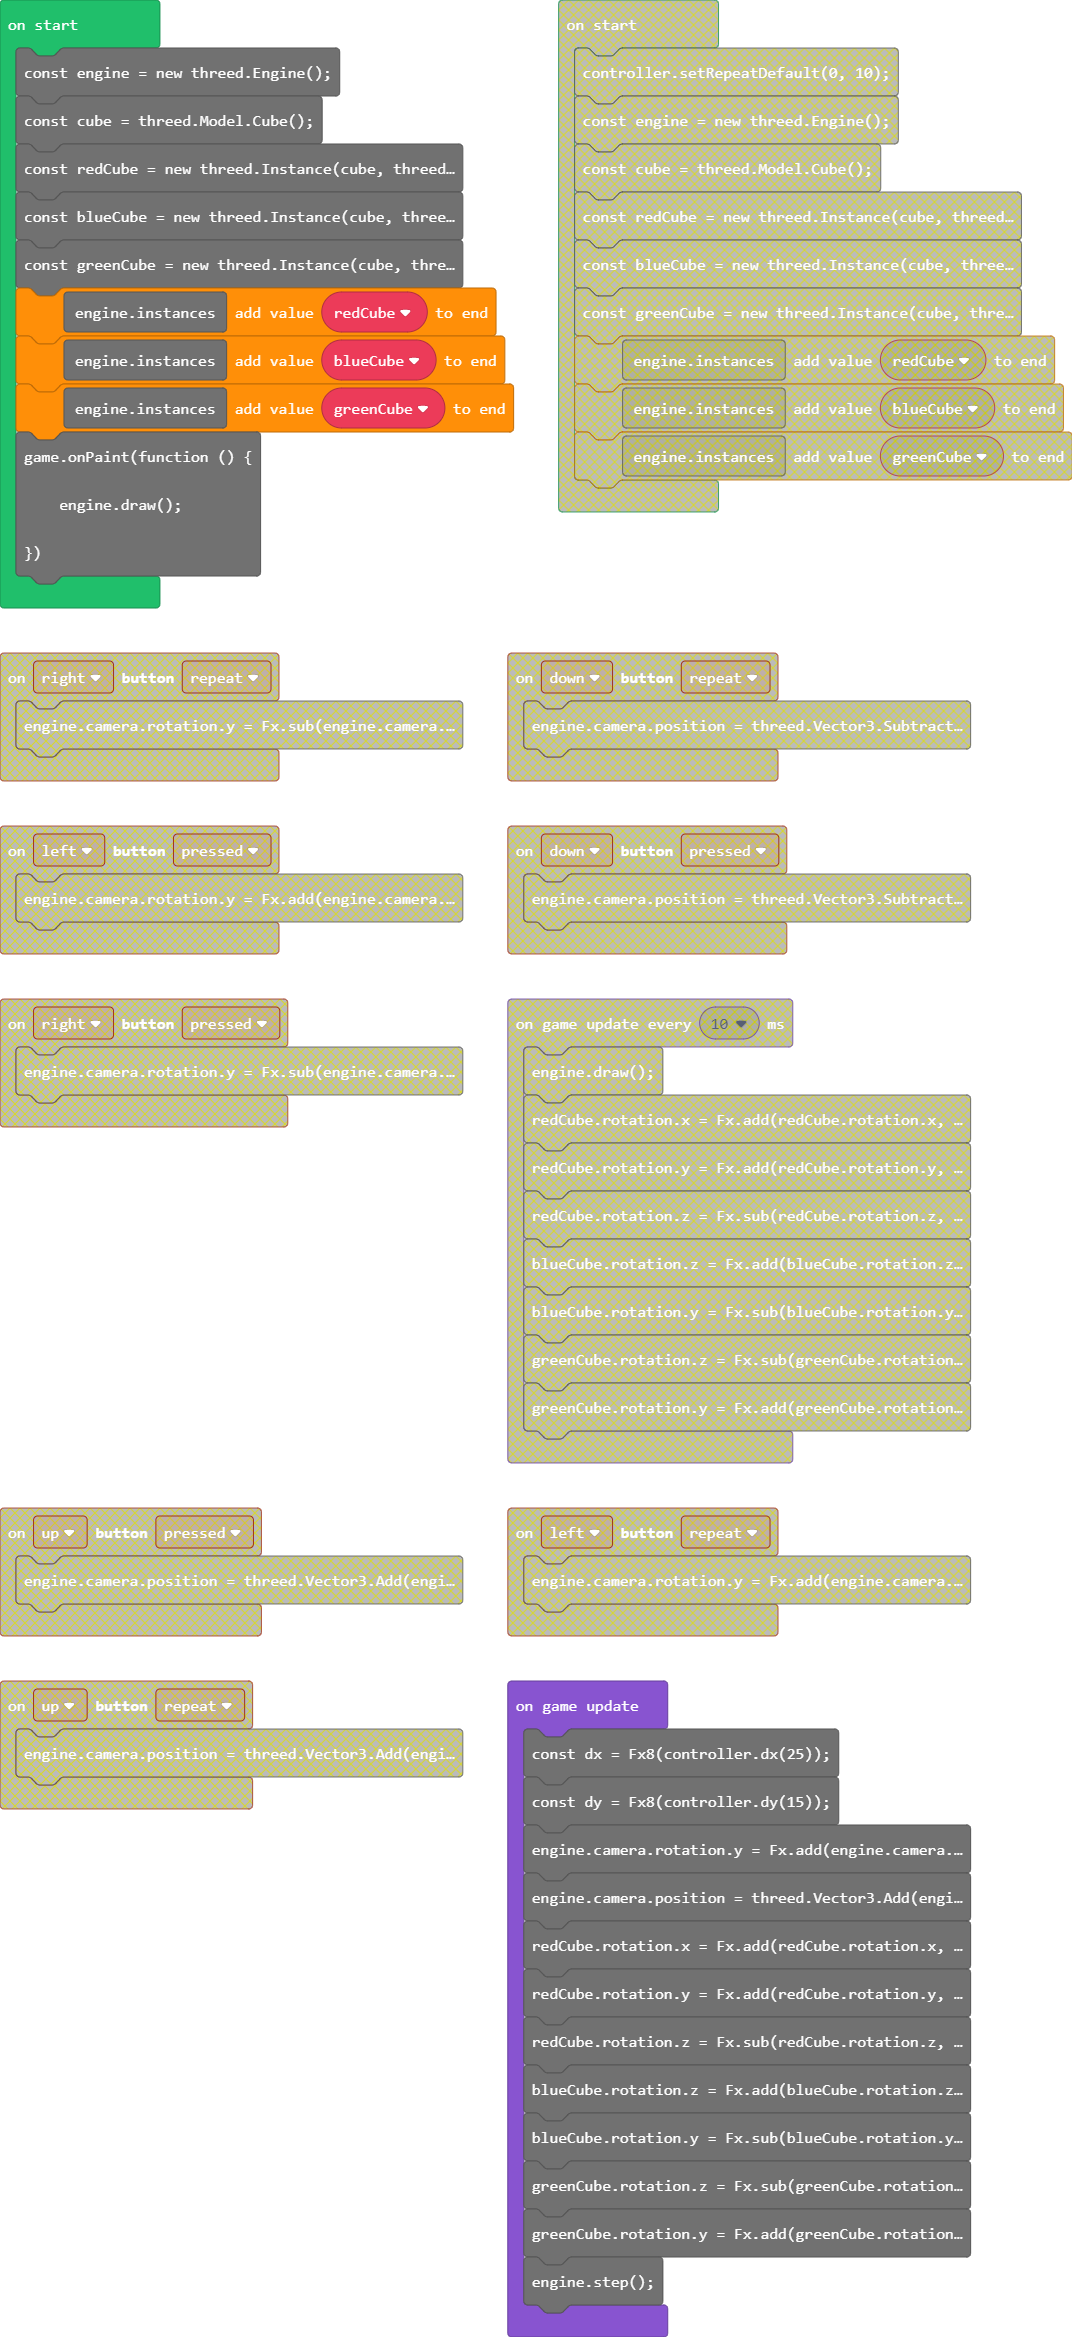
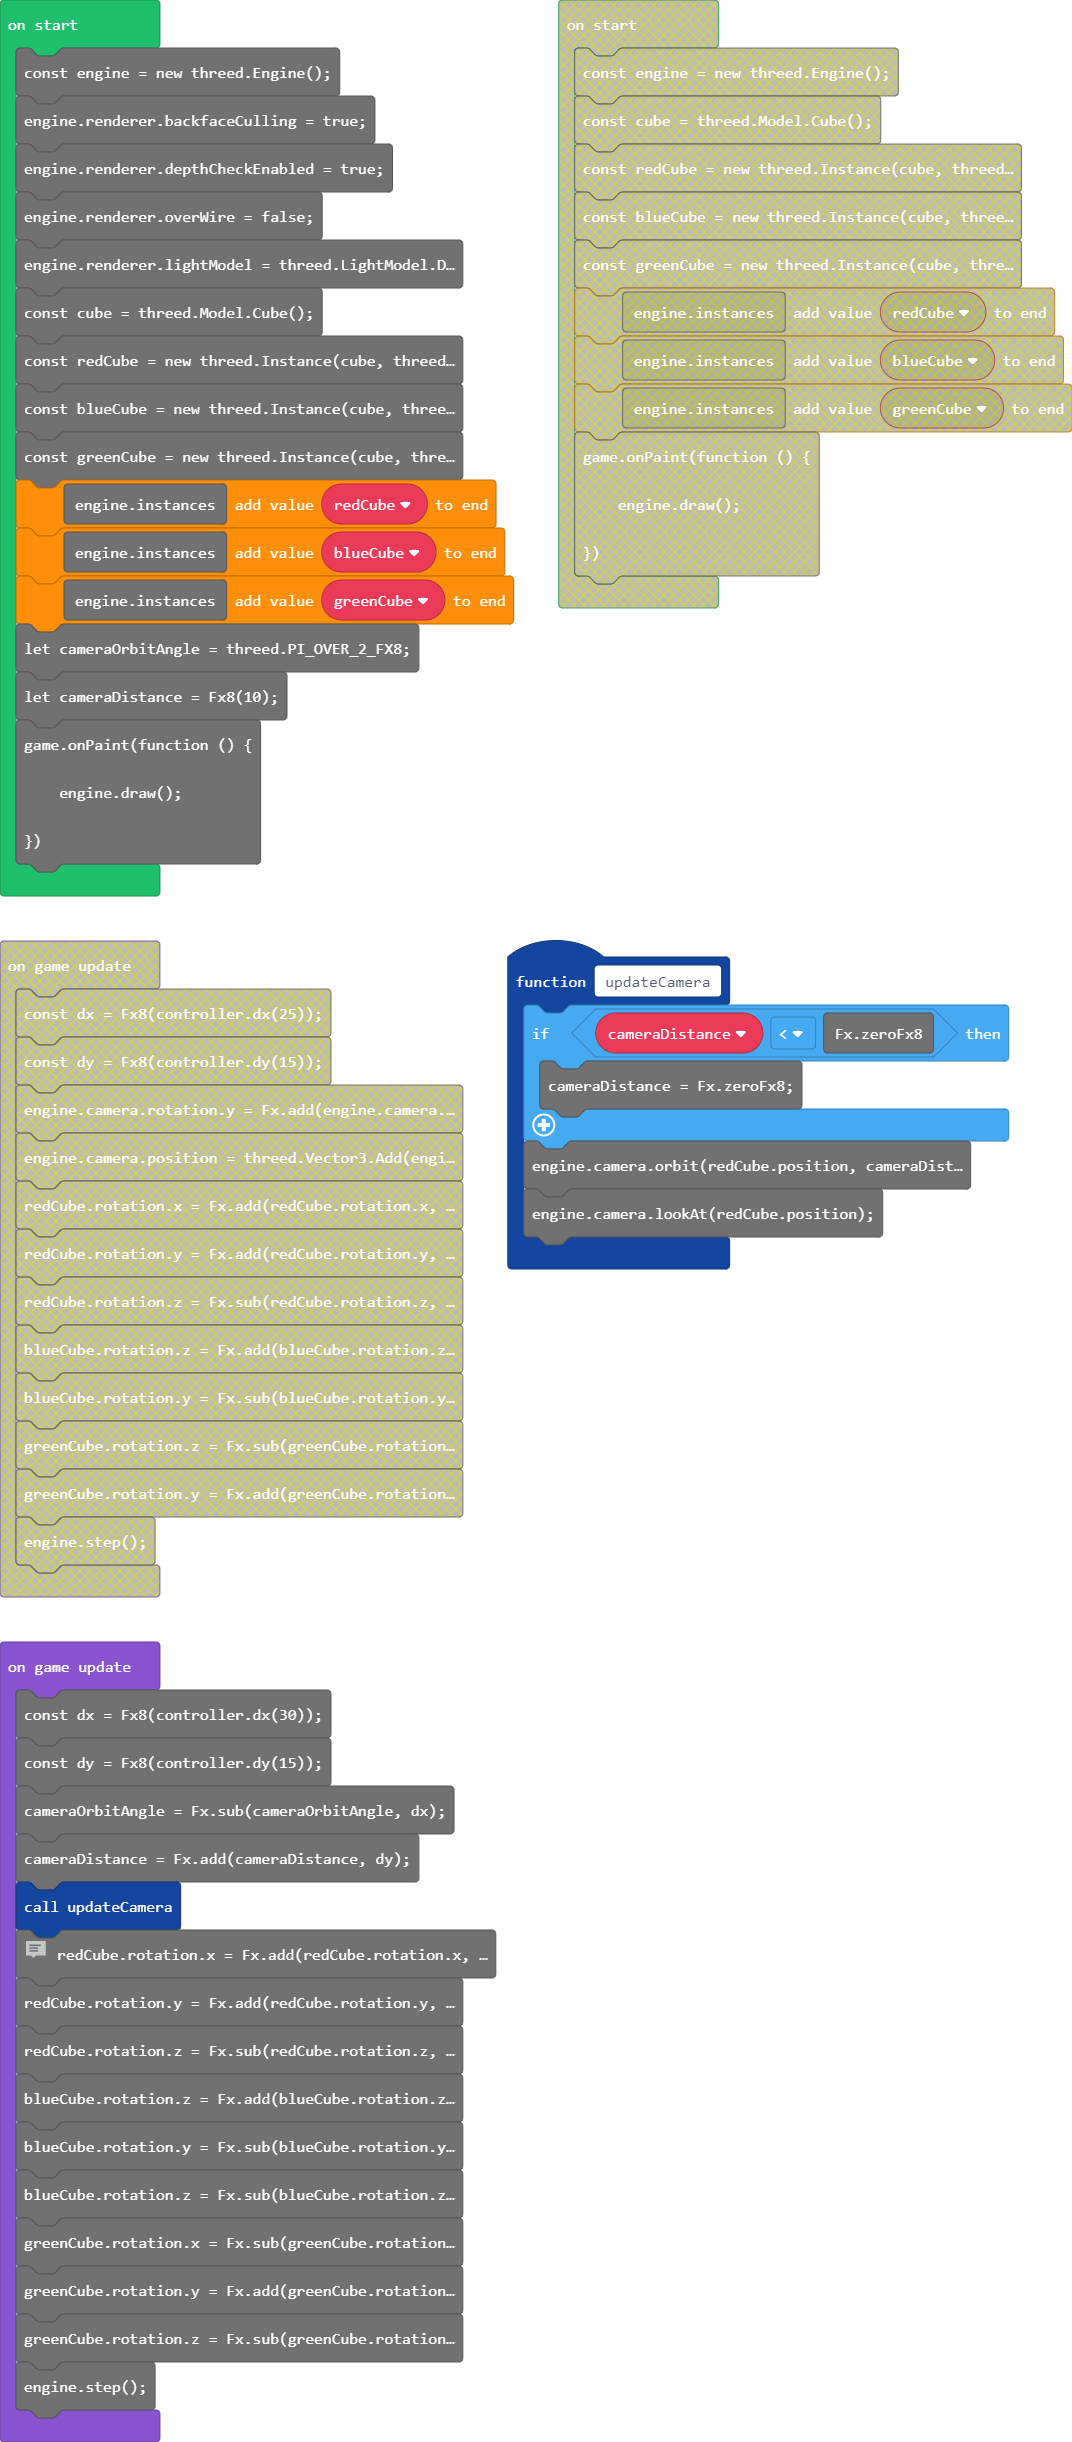
camera orbit

diff --git a/main.ts b/main.ts
@@ -3,38 +3,48 @@ controller.B.onEvent(ControllerButtonEvent.Pressed, function () {
 })
 controller.A.onEvent(ControllerButtonEvent.Pressed, function () {
     engine.renderer.lightModel += 1;
-    engine.renderer.lightModel %= threed.LightModel.Count;
+engine.renderer.lightModel %= threed.LightModel.Count;
 })
+function updateCamera () {
+    if (cameraDistance < Fx.zeroFx8) {
+        cameraDistance = Fx.zeroFx8;
+    }
+    engine.camera.orbit(redCube.position, cameraDistance, cameraOrbitAngle, threed.Vector3.Y());
+engine.camera.lookAt(redCube.position);
+}
 const engine = new threed.Engine();
 engine.renderer.backfaceCulling = true;
 engine.renderer.depthCheckEnabled = true;
 engine.renderer.overWire = false;
 engine.renderer.lightModel = threed.LightModel.Dither;
-
 const cube = threed.Model.Cube();
-const redCube = new threed.Instance(cube, threed.Colors.Red, new threed.Vector3(Fx8(0), Fx8(0), Fx8(10)), new threed.Vector3(Fx8(0), Fx8(0), Fx8(0)), threed.Vector3.One());
-const blueCube = new threed.Instance(cube, threed.Colors.Blue, new threed.Vector3(Fx8(2.75), Fx8(0), Fx8(10)), new threed.Vector3(Fx8(0), Fx8(0), Fx8(0)), threed.Vector3.One());
-const greenCube = new threed.Instance(cube, threed.Colors.Green, new threed.Vector3(Fx8(-2.75), Fx8(0), Fx8(10)), new threed.Vector3(Fx8(0), Fx8(0), Fx8(0)), threed.Vector3.One());
+const redCube = new threed.Instance(cube, threed.Colors.Red, new threed.Vector3(Fx8(0), Fx8(0), Fx8(0)), threed.Vector3.Zero(), threed.Vector3.One());
+const blueCube = new threed.Instance(cube, threed.Colors.Blue, new threed.Vector3(Fx8(2.75), Fx8(0), Fx8(0)), threed.Vector3.Zero(), threed.Vector3.One());
+const greenCube = new threed.Instance(cube, threed.Colors.Green, new threed.Vector3(Fx8(-2.75), Fx8(0), Fx8(0)), threed.Vector3.Zero(), threed.Vector3.One());
 engine.instances.push(redCube)
 engine.instances.push(blueCube)
 engine.instances.push(greenCube)
+let cameraOrbitAngle = threed.PI_OVER_2_FX8;
+let cameraDistance = Fx8(10);
 game.onPaint(function () {
     engine.draw();
 })
 game.onUpdate(function () {
-    const dx = Fx8(controller.dx(25));
-    const dy = Fx.neg(Fx8(controller.dy(15)));
-    engine.camera.rotation.y = Fx.add(engine.camera.rotation.y, dx);
-    engine.camera.position = threed.Vector3.Add(engine.camera.position, threed.Vector3.Scale(dy, engine.camera.forward));
-    // Note: angles are not in radians OR degrees here! They're in a 256-step unit circle.
+    const dx = Fx8(controller.dx(30));
+const dy = Fx8(controller.dy(15));
+cameraOrbitAngle = Fx.sub(cameraOrbitAngle, dx);
+cameraDistance = Fx.add(cameraDistance, dy);
+updateCamera()
+    // Note: angles are not in radians OR degrees here!
+    // They're in a 256-angle unit circle.
     redCube.rotation.x = Fx.add(redCube.rotation.x, Fx8(0.76));
-    redCube.rotation.y = Fx.add(redCube.rotation.y, Fx8(0.33));
-    redCube.rotation.z = Fx.sub(redCube.rotation.z, Fx8(0.01));
-    blueCube.rotation.z = Fx.add(blueCube.rotation.z, Fx8(2.37));
-    blueCube.rotation.y = Fx.sub(blueCube.rotation.y, Fx8(0.41));
-    blueCube.rotation.z = Fx.sub(blueCube.rotation.z, Fx8(0.01));
-    greenCube.rotation.x = Fx.sub(greenCube.rotation.x, Fx8(1.71));
-    greenCube.rotation.y = Fx.add(greenCube.rotation.y, Fx8(0.03));
-    greenCube.rotation.z = Fx.sub(greenCube.rotation.z, Fx8(0.01));
-    engine.step();
+redCube.rotation.y = Fx.add(redCube.rotation.y, Fx8(0.33));
+redCube.rotation.z = Fx.sub(redCube.rotation.z, Fx8(0.01));
+blueCube.rotation.z = Fx.add(blueCube.rotation.z, Fx8(2.37));
+blueCube.rotation.y = Fx.sub(blueCube.rotation.y, Fx8(0.41));
+blueCube.rotation.z = Fx.sub(blueCube.rotation.z, Fx8(0.01));
+greenCube.rotation.x = Fx.sub(greenCube.rotation.x, Fx8(1.71));
+greenCube.rotation.y = Fx.add(greenCube.rotation.y, Fx8(0.03));
+greenCube.rotation.z = Fx.sub(greenCube.rotation.z, Fx8(0.01));
+engine.step();
 })

diff --git a/camera.ts b/camera.ts
@@ -1,38 +1,58 @@
 
 namespace threed {
     export class Camera {
-        public position: Vector3;
-        public rotation: Vector3;
-        public clippingPlanes: Plane[];
-        public transform: Matrix4x4;
-        public transposedOrientation: Matrix4x4;
-
+        private _transform: Matrix4x4;
+        private _clippingPlanes: Plane[];
+        private _transposedOrientation: Matrix4x4;
         private _forward: Vector3;
-        public get forward() { return this._forward; }
+
+        public get transform() { return this._transform; }
+        public get clippingPlanes() { return this._clippingPlanes; }
+        public get transposedOrientation() { return this._transposedOrientation; }
+
+        public position: Vector3;
+        public orientation: Matrix4x4;
 
         constructor(position: Vector3, rotation: Vector3) {
-            this.position = position;
-            this.rotation = rotation;
+            this.orientation = Matrix4x4.Identity();
+            this.position = Vector3.Zero();
+            // Hacky. Todo: Use a real projection matrix
             const s2 = Fx8(Math.SQRT2);
             const ns2 = Fx8(-Math.SQRT2);
-            this.clippingPlanes = [
-                new Plane(new Vector3(Fx.zeroFx8, Fx.zeroFx8, Fx.oneFx8), Fx8(-1)), // Near
+            this._clippingPlanes = [
+                new Plane(new Vector3(Fx.zeroFx8, Fx.zeroFx8, Fx.oneFx8), negOneFx8), // Near
                 new Plane(new Vector3(s2, Fx.zeroFx8, s2), Fx.zeroFx8), // Left
                 new Plane(new Vector3(ns2, Fx.zeroFx8, s2), Fx.zeroFx8), // Right
                 new Plane(new Vector3(Fx.zeroFx8, ns2, s2), Fx.zeroFx8), // Top
                 new Plane(new Vector3(Fx.zeroFx8, s2, s2), Fx.zeroFx8), // Bottom
             ];
-
-            this.updateTransform();
+            this.update();
         }
 
-        public updateTransform() {
-            const orientation = Matrix4x4.RotationMatrixFromEulerAngles(this.rotation);
-            this.transposedOrientation = Matrix4x4.Transposed(orientation);
-            this.transform = Matrix4x4.Multiply(
-                this.transposedOrientation,
-                Matrix4x4.TranslationMatrix(Vector3.Scale(Fx8(-1), this.position)));
-            this._forward = Matrix4x4.MultiplyVector4(orientation, new Vector4(Fx.zeroFx8, Fx.zeroFx8, Fx.oneFx8, Fx.oneFx8)).toVector3();
+        public update() {
+            const orientation = this.orientation;
+            const translation = Matrix4x4.TranslationMatrix(Vector3.Scale(negOneFx8, this.position));
+            this._transposedOrientation = Matrix4x4.Transposed(orientation);
+            this._transform = Matrix4x4.Multiply(this._transposedOrientation, translation);
+            //this._forward = Matrix4x4.MultiplyVector4(orientation, new Vector3(Fx.zeroFx8, Fx.zeroFx8, Fx.oneFx8).toVector4()).toVector3();
+        }
+
+        public orbit(pt: Vector3, dist: Fx8, angle: Fx8, normal: Vector3) {
+            // Assuming here that [0, 0, 1] represents a zero-degree rotation around axis [0, 1, 0].
+            const rotation = Matrix4x4.RotationMatrixFromAxisAngle(normal, angle);
+            const rotated = Matrix4x4.MultiplyVector4(rotation, Vector3.Scale(dist, Vector3.X()).toVector4()).toVector3();
+            this.position = Vector3.Add(rotated, pt);
+        }
+
+        public lookAt(pt: Vector3) {
+            const forward = Vector3.Normalized(Vector3.Subtract(pt, this.position));
+            const right = Vector3.Cross(Vector3.Y(), forward);
+            const up = Vector3.Cross(forward, right);
+            this.orientation = Matrix4x4.RotationMatrixFromAxisVectors(forward, right, up);
+        }
+
+        public rotate(angle: Fx8, axis: Vector3) {
+            this.orientation = Matrix4x4.RotationMatrixFromAxisAngle(axis, angle);
         }
     }
 }

diff --git a/fxtrig.ts b/fxtrig.ts
@@ -2,18 +2,18 @@ namespace threed {
     // Quarter arc of sin values (64 entries) in a 256-angle unit circle
     const sinTable: Fx8[] = [0 as any as Fx8, 6 as any as Fx8, 12 as any as Fx8, 18 as any as Fx8, 25 as any as Fx8, 31 as any as Fx8, 37 as any as Fx8, 43 as any as Fx8, 49 as any as Fx8, 56 as any as Fx8, 62 as any as Fx8, 68 as any as Fx8, 74 as any as Fx8, 80 as any as Fx8, 86 as any as Fx8, 92 as any as Fx8, 97 as any as Fx8, 103 as any as Fx8, 109 as any as Fx8, 115 as any as Fx8, 120 as any as Fx8, 126 as any as Fx8, 131 as any as Fx8, 136 as any as Fx8, 142 as any as Fx8, 147 as any as Fx8, 152 as any as Fx8, 157 as any as Fx8, 162 as any as Fx8, 167 as any as Fx8, 171 as any as Fx8, 176 as any as Fx8, 181 as any as Fx8, 185 as any as Fx8, 189 as any as Fx8, 193 as any as Fx8, 197 as any as Fx8, 201 as any as Fx8, 205 as any as Fx8, 209 as any as Fx8, 212 as any as Fx8, 216 as any as Fx8, 219 as any as Fx8, 222 as any as Fx8, 225 as any as Fx8, 228 as any as Fx8, 231 as any as Fx8, 234 as any as Fx8, 236 as any as Fx8, 238 as any as Fx8, 241 as any as Fx8, 243 as any as Fx8, 244 as any as Fx8, 246 as any as Fx8, 248 as any as Fx8, 249 as any as Fx8, 251 as any as Fx8, 252 as any as Fx8, 253 as any as Fx8, 254 as any as Fx8, 254 as any as Fx8, 255 as any as Fx8, 255 as any as Fx8, 255 as any as Fx8, 256 as any as Fx8];
 
-    const TWO_PI = 256;
-    const PI = 128;
-    const PI_OVER_2 = 64;
-    const TWO_PI_OVER_3 = 192;
-    const TWO_PI_FX8 = Fx8(TWO_PI);
-    const PI_FX8 = Fx8(PI);
-    const PI_OVER_2_FX8 = Fx8(PI_OVER_2);
-    const TWO_PI_OVER_3_FX8 = Fx8(TWO_PI_OVER_3);
+    export const TWO_PI = 256;
+    export const PI = 128;
+    export const PI_OVER_2 = 64;
+    export const TWO_PI_OVER_3 = 192;
+    export const TWO_PI_FX8 = Fx8(TWO_PI);
+    export const PI_FX8 = Fx8(PI);
+    export const PI_OVER_2_FX8 = Fx8(PI_OVER_2);
+    export const TWO_PI_OVER_3_FX8 = Fx8(TWO_PI_OVER_3);
 
     export const negOneFx8 = Fx8(-1);
 
-    function fxmod(a: Fx8, b: Fx8) {
+    export function fxmod(a: Fx8, b: Fx8) {
         return ((a as any as number) % (b as any as number)) as any as Fx8;
     }
 

diff --git a/matrix4x4.ts b/matrix4x4.ts
@@ -2,7 +2,6 @@ namespace threed {
     export class Matrix4x4 {
         public data: Fx8[][];
 
-
         constructor(data: Fx8[][]) {
             this.data = data;
         }
@@ -56,6 +55,16 @@ namespace threed {
                 [Fx.add(c, Fx.mul(Fx.mul(x, x), mc)), Fx.sub(Fx.mul(Fx.mul(x, y), mc), Fx.mul(x, s)), Fx.add(Fx.mul(Fx.mul(x, z), mc), Fx.mul(y, s)), Fx.zeroFx8],
                 [Fx.add(Fx.mul(Fx.mul(y, x), mc), Fx.mul(x, s)), Fx.add(c, Fx.mul(Fx.mul(y, y), mc)), Fx.sub(Fx.mul(Fx.mul(y, z), mc), Fx.mul(x, s)), Fx.zeroFx8],
                 [Fx.sub(Fx.mul(Fx.mul(z, x), mc), Fx.mul(y, s)), Fx.add(Fx.mul(Fx.mul(z, y), mc), Fx.mul(x, s)), Fx.add(c, Fx.mul(Fx.mul(z, z), mc)), Fx.zeroFx8],
+                [Fx.zeroFx8, Fx.zeroFx8, Fx.zeroFx8, Fx.oneFx8]
+            ]);
+        }
+
+        // Note: Axes should be orthogonal and normalized.
+        public static RotationMatrixFromAxisVectors(forward: Vector3, right: Vector3, up: Vector3) {
+            return new Matrix4x4([
+                [right.x, up.x, forward.x, Fx.zeroFx8],
+                [right.y, up.y, forward.y, Fx.zeroFx8],
+                [right.z, up.z, forward.z, Fx.zeroFx8],
                 [Fx.zeroFx8, Fx.zeroFx8, Fx.zeroFx8, Fx.oneFx8]
             ]);
         }

diff --git a/vector3.ts b/vector3.ts
@@ -26,6 +26,18 @@ namespace threed {
         public static One() {
             return new Vector3(Fx.oneFx8, Fx.oneFx8, Fx.oneFx8);
         }
+       
+        public static X() {
+            return new Vector3(Fx.oneFx8, Fx.zeroFx8, Fx.zeroFx8);
+        }
+
+        public static Y() {
+            return new Vector3(Fx.zeroFx8, Fx.oneFx8, Fx.zeroFx8);
+        }
+
+        public static Z() {
+            return new Vector3(Fx.zeroFx8, Fx.zeroFx8, Fx.oneFx8);
+        }
 
         public static Scale(k: Fx8, vec: Vector3) {
             return new Vector3(Fx.mul(k, vec.x), Fx.mul(k, vec.y), Fx.mul(k, vec.z));
@@ -59,6 +71,10 @@ namespace threed {
             const mag = Vector3.Magnitude(vec);
             if (!mag) return vec;
             return Vector3.Scale(Fx.div(Fx.oneFx8, mag), vec);
+        }
+
+        public static Abs(vec: Vector3) {
+            return new Vector3(Fx.abs(vec.x), Fx.abs(vec.y), Fx.abs(vec.z));
         }
     }
 }

diff --git a/renderer.ts b/renderer.ts
@@ -66,9 +66,9 @@ namespace threed {
         }
 
         private renderScene() {
-            this.engine.camera.updateTransform();
+            this.engine.camera.update();
             for (const instance of this.engine.instances) {
-                instance.updateTransform();
+                instance.update();
                 const clipped = this.transformAndClip(instance);
                 if (clipped) {
                     this.renderModel(instance.color, clipped);

diff --git a/instance.ts b/instance.ts
@@ -14,10 +14,10 @@ namespace threed {
             this.rotation = rotation;
             this.scale = scale;
 
-            this.updateTransform();
+            this.update();
         }
 
-        public updateTransform() {
+        public update() {
             this.transform = Matrix4x4.Multiply(
                 Matrix4x4.TranslationMatrix(this.position),
                 Matrix4x4.Multiply(
